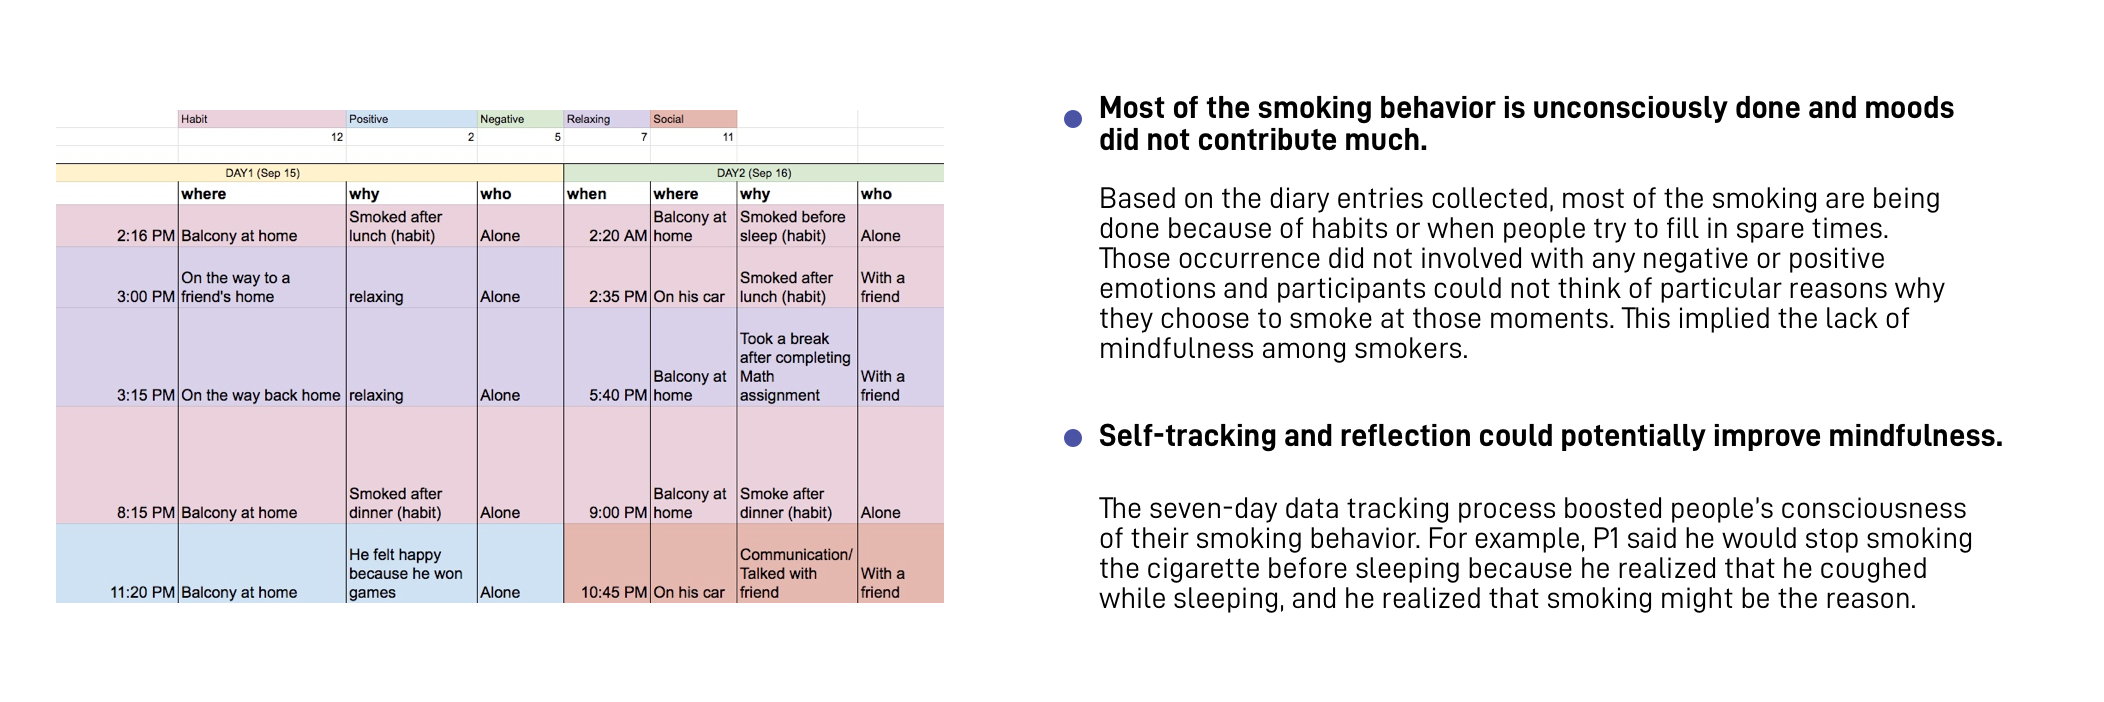
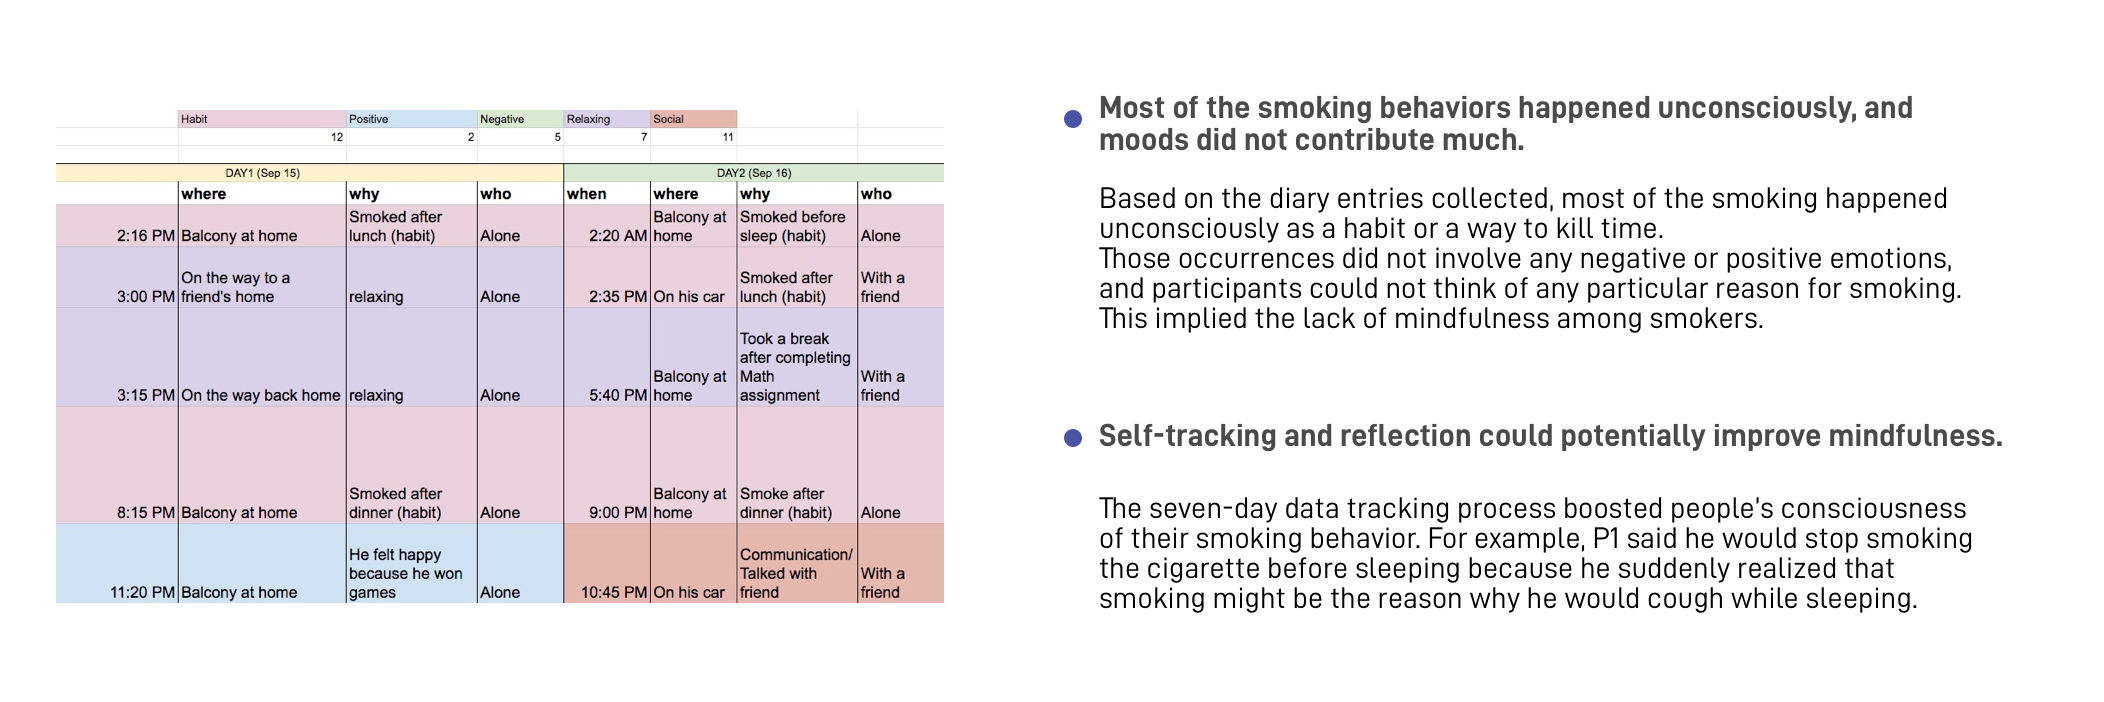
homepage+smoking update

diff --git a/smoking.html b/smoking.html
@@ -90,17 +90,15 @@
                                     
                                     <a href="img/portfolio/single/3.jpg" class="portfolio-gallery-set" ><img src="img/portfolio/single/3.jpg" alt=""></a>
                                 </div>-->
-                                     <a href="img/smoking/uis.jpg" ><img src="img/smoking/uis.jpg"  width="100%" alt=""></a>                       
+                                     <a href="img/smoking/uis.png" ><img src="img/smoking/uis.png"  width="100%" alt=""></a>                       
                             </div>
                             <div class="col-lg-12 col-md-12 col-sm-12">
                                 <div class="project-meta-wrapper">
                                     <div class="single-project-description"><br>
                                   
                                         <h3 class="owner-text">Project Introduction</h3>
-                                        <p>This is a team project for our Health Informatics class. In this project, we proposed a design of a smoke
-cessation app, which integrates the social support element by connecting people at the “action stage”
-of the stage-based model to help one another quit smoking.</p>
-<p>Welcome to watch the following video to gain a quick understanding of our design.</p>
+                                        <p>This is a team project for the Health Informatics class at the University of Maryland. In this project, we proposed the design solution of a smoking cessation app called "Quitogether."  This App integrates the social support element by connecting people at the "action stage" to help one another quit smoking.</p>
+                                        <p>Below is a video to show how Quitogether might help people to quit smoking in real-life scenarios.</p>
                                         <iframe width="672" height="378" src="https://www.youtube.com/embed/vSA7iiYToEY" frameborder="0" allow="accelerometer; autoplay; encrypted-media; gyroscope; picture-in-picture" allowfullscreen></iframe>
                                         
                                         
@@ -120,47 +118,22 @@ of the stage-based model to help one another quit smoking.</p>
                                     </div>
                                      <div class="single-project-description">
                                         <h3 class="owner-text">Background Study</h3><br>
-                                        <p> To understand the background and existed solutions of smoking cessation, our team went through
-papers, articles, and social platforms to dive deeper into the subject matter. We found four major insights
-from these sources and use them as the guidelines for our design.</p>
-<!--
-                                        <p><strong>1. Lack of social interaction in existing smoking cessation apps</strong></p>
-                                        <p>Common features that existing smoking cessation apps employ are tracking benefits (e.g., money
-saved and health benefits accrued), tracking the number of quitting days, hypnosis techniques, goal
-setting, education, measuring lung health, and games for quitting.</p>
-                                        <p><strong>2. People need social support from others to remain motivated</strong></p>
-                                        <p>Currently,
-when before, during, or after quitting, people use social network websites such as Facebook and Twitter, and other online communities to look for information, seek help, post achievement, and
-share experience. Furthermore, studies show that people are more comfortable to share experience
-related to health and behavior change, and respond to other people in a supportive manner when
-they are on anonymous online communities.</p>
-                                        <p><strong>3. Targeting the people who are already in action</strong></p>
-                                        <p>Previous research identified five stages of change of quitting smoking, which are: precontemplation,
-contemplation, preparation, action, and maintenance. Research shows that people at different
-stages have different preferences for information exchange. People at the action stage are the
-most active—they seek information and plans, share achievement and stories, and ask and answer
-questions.</p>
-                                        <p><strong>4. Improve mindfulness to achieve behavior change</strong></p>
-                                        <p>Tracking and reflecting on smoking behavior can promote the mindfulness and effectively help
-smokers quit. Previous research enriches our understanding of addictive behaviors and the nature of
-behavior change. When the urge of smoking appears, smokers unconsciously ignore all the
-negative aspects of smoking and repeat the habit of smoking.</p>-->
-                                    <div class="pimages"><img src="img/smoking/findings.png" width="90%" ></div>
+                                        <p> To understand the background knowledge of smoking behaviors and the existing solutions of smoking cessation, our team went through a bunch of papers, articles, and social platforms to dive deeper into the subject matter. We found four significant insights from these sources and used them as the guidelines for our design.</p>
+
+                                    <div class="pimages"><img src="img/smoking/findings.png" width="100%" ></div>
                                     </div><br><br>
                                      <div class="single-project-description">
                                         <h3 class="owner-text">The Challenge</h3><br>
-                                        <p>According to all we have learned in the background study, we defined our target user group as young adults (18-35
-years old) who are at the action stage of quitting
-smoking. Also, according to previous studies, we decided to add social support, data tracking, and reflection features to the future product to help people quit more effectively.</p>
+                                        <p>According to all we have learned in the background study, we defined our target user group as young adults (18-35 years old) who are at the action stage of quitting smoking. Also, based on previous study findings, we decided to add social support, data tracking, and reflection features to the future product to help people quit more effectively.</p>
                                         <p>Therefore, our design challenge is -- </p>
-                                        <p><strong>How to find a way to provide young smokers who are in the action phase with social support and to improve their mindfulness to help them quit smoking?</strong></p>
+                                        <p><strong>How to help young smokers in the action phase to quit smoking in an effective and creative way by providing social support, data tracking, and self-reflection features? </strong></p>
                                         <br><br>
                                     </div>
                                     <div class="single-project-description">
                                         <h3 class="owner-text">Diary Study</h3><br>
-                                        <p>Our team designed a diary study research to learn more about the context of their smoking behavior. This study also served the purpose of understanding the effectiveness of self-reflection and mindfulness on the participant’s perception of their behavior.</p>
-                                        <p>We did a seven-day diary study with young smokers. Five participants were recruited, and three completed the study. Participants were asked to track when and where they smoked, how many cigarettes they smoked and why they smoked. At the end of the seven-day study, we interviewed each participant to learn in-depth reasons for smoking behaviors, smoking behavior patterns, and how the seven-day diary study influences their smoking behaviors.</p>
-                                        <p>Below is a sample of our diary study notes and the major findings in the diary study.</p>
+                                        <p>Our team designed a diary study research to learn more about the context of their smoking behavior. This study also served the purpose of understanding the effectiveness of self-reflection on the participant’s perception of their behavior.</p>
+                                        <p>Participants were asked to track when and where they smoked, how many cigarettes they smoked, and why they smoked. At the end of the seven-day study, we interviewed each participant to learn in-depth motivations for smoking behaviors, smoking behavior patterns, and how the seven-day diary study influences their smoking behaviors.</p>
+                                        <p>Below is an example of our diary study notes and the major findings in the diary study.</p>
                                         <div class="pimages"><img src="img/smoking/diary.png" width="100%" ></div>
                                         <br>
                                     </div>
@@ -169,23 +142,23 @@ smoking. Also, according to previous studies, we decided to add social support, 
                                         <h3 class="owner-text">Paper Prototyping + User Testing</h3><br>
                                         <p>Based on the findings from the user research and diary study, we came up with the initial design. The product is called Quitogether. It will help people reflect on their smoking behavior by tracking and visualizing data regarding smoking and smoking urges. People will give and receive social support from group members who work closely to quit smoking and from other people who are using Quitogether. We also created a low fidelity paper prototype for user testing.</p>
                                         <div class="pimages"><img src="img/smoking/testing.png" width="100%" ></div>
-                                        <p>We conducted user testing with three participants who were current smokers with more than 12-month smoking experience. After the testing, we gathered some useful feedback that later has been applied to our final design such as  </p>
-                                        <p><strong>- Don't mention "smoking" in the help request message </strong></p>
+                                        <p>We conducted user testing with three participants who were current smokers with more than 12-month smoking experience. After the testing, we collected some interesting findings that has inpsired our final design a lot:  </p>
+                                        <p><strong>- Finding 1: Never mention "smoking" in the help request message </strong></p>
                                         <p>Although it is helpful to get peer support, our participants mentioned that keeping showing words about "smoking" in front of group members might remind them of the urge to smoke. As a consequence, in our final design, we used a metaphor to achieve this "secret handshake."</p>
                                         <p>In the final design, we describe the urge to smoking as a "monster." So whenever a monster is attacking the user, he or she can send out a help message to the teammates to ask their help to defeat the "monster." In this way, we can help users to overcome the urge in a playful way without influencing other teammates. We also want to provide users with more options to customize this help message.</p>
                                         <div class="pimages"><img src="img/smoking/monster.png" width="100%" ></div><br/>
-                                        <p><strong>- Track and show urges to promote mindfulness and positive reinforcement</strong></p>
+                                        <p><strong>- Finding 2: Track and show smoking urges instead of the number of cigerattes they have smoked</strong></p>
                                         <p>According to the feedback, although it is a common practice in current products, tracking the number of cigarettes they have smoked every day is not really helpful since they have already smoked. And seeing the number of cigarettes will only make them feel bad about themselves.</p>
                                         <p> So we decided to ask users to track their smoking urges. This would help users quit smoking more effectively, as it can help them overcome some of the urges at the moment. Also, we could highlight how many times users overcame the urge of smoking to offer them a sense of achievement and help them stick to their quitting plan.</p>
                                         <p>As is shown in the below image, the grey bar represents the urge of smoking, while the purple bar represents the cigarettes they have actually smoked. We could highlight their achievements of overcoming smoking urges in the daily summary to motivate users to stick to the plan.</p>
                                         <div class="pimages"><img src="img/smoking/urge.png" width="100%" ></div><br/>
-                                        <p><strong>- Cessation experience and knowledge Sharing</strong></p>
+                                        <p><strong>- Finding 3: Successful cessation experience and knowledge sharing is necessary</strong></p>
                                         <p>Although a small cessation group is beneficial, our participants think that they still need a broader community to communicate and share their experiences. Besides, they believe stories with real tracking data is especially convincing. So we decided to add an online community with data sharing feature for them to share their quitting plans/tracking results and get help from a larger group.</p>
                                         <br><br>
                                     </div>
                                         <div class="single-project-description">
                                         <h3 class="owner-text">Final Design </h3><br>
-                                    <div class="pimages"><img src="img/smoking/uis.jpg" width="100%" ></div>
+                                    <!--<div class="pimages"><img src="img/smoking/uis.jpg" width="100%" ></div>-->
                                     <div class="pimages"><img src="img/smoking/2.png" width="100%" ></div>
                                     <div class="pimages"><img src="img/smoking/3.png" width="100%" ></div>
                                     <div class="pimages"><img src="img/smoking/4.png" width="100%" ></div>

diff --git a/index.html b/index.html
@@ -221,7 +221,7 @@
                                         </div>                                   
                                     </div>
                                 </div>
-                                <div class="portfolio-item cat1">
+                               <!-- <div class="portfolio-item cat1">
                                     <div class="portfolio-item-content">
                                         <div class="hover-3">
                                              <a href="colorful.html">
@@ -234,8 +234,9 @@
                                             <img src="img/colorful/cmlogo.jpg" alt="">
                                         </div>                                   
                                     </div>
-                                </div>
-                                   <div class="portfolio-item cat1">
+                                </div>-->
+
+                                <div class="portfolio-item cat1">
                                     <div class="portfolio-item-content">
                                         <div class="hover-3">
                                             <a href="internship.html" >
@@ -253,7 +254,7 @@
                               
                               
 
-                                <div class="portfolio-item cat1">
+                               <!-- <div class="portfolio-item cat1">
                                     <div class="portfolio-item-content">
                                         <div class="hover-3">
                                             <a href="course.html" >
@@ -266,23 +267,10 @@
                                             <img src="img/course/courselogo.jpg" alt="">
                                         </div>                                   
                                     </div>
-                                </div>
+                                </div>-->
 
                                 
-   <div class="portfolio-item cat2 ">
-                                    <div class="portfolio-item-content">
-                                        <div class="hover-3">
-                                            <a href="blackjack.html">
-                                            <div class="overlay3">
-                                                <div class="hover-text">
-                                                   <span>Blackjack Online Game</span><br>
-                                                   <span class="hover-text-small">Front-end Development, Web Design</span>
-                                               </div>
-                                            </div></a>
-                                            <img src="img/blackjack/logo.jpg" alt="">
-                                        </div>                                     
-                                    </div>
-                                </div>
+                            
 
                                
                                
@@ -303,9 +291,24 @@
                                                                     </div>                                     
                                                                 </div>
                                                             </div>
+                            
 
+                            <div class="portfolio-item cat2 ">
+                                    <div class="portfolio-item-content">
+                                        <div class="hover-3">
+                                            <a href="blackjack.html">
+                                            <div class="overlay3">
+                                                <div class="hover-text">
+                                                   <span>Blackjack Online Game</span><br>
+                                                   <span class="hover-text-small">Front-end Development, Web Design</span>
+                                               </div>
+                                            </div></a>
+                                            <img src="img/blackjack/logo.jpg" alt="">
+                                        </div>                                     
+                                    </div>
+                                </div>
                              
-                                             <div class="portfolio-item cat1 ">
+                                <!--<div class="portfolio-item cat1 ">
                                     <div class="portfolio-item-content">
                                         <div class="hover-3">
                                             <a href="buyer.html">
@@ -318,7 +321,7 @@
                                             <img src="img/buyer/buyerlogo.jpg" alt="">
                                         </div>                                  
                                     </div>
-                                </div>                 
+                                </div>-->                 
                                  
                                 <!--
                                 <div class="portfolio-item cat4">
